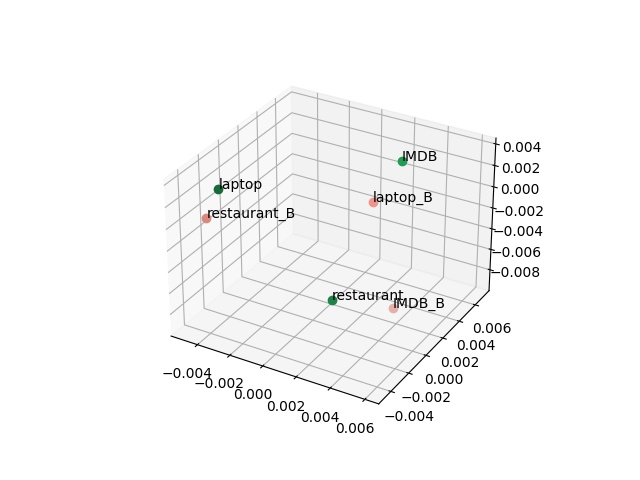
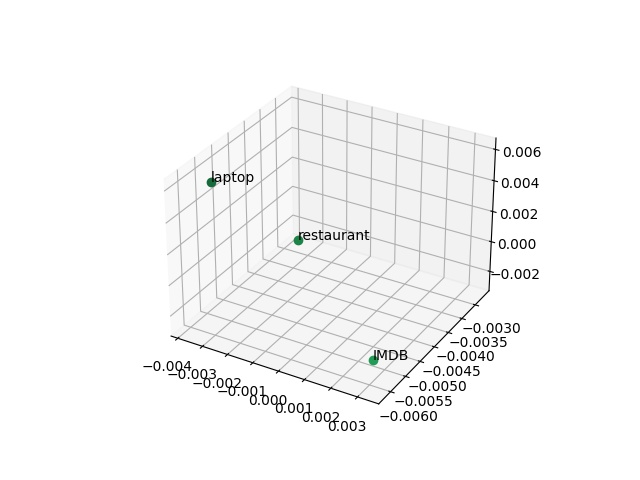
update

diff --git a/draw_cuda_crossmodel_prompt.py b/draw_cuda_crossmodel_prompt.py
@@ -483,7 +483,7 @@ IMDB_label_ten_B[IMDB_label_ten_B==1]=23
 
 
 #all_prompt_emb = torch.stack([laptop_ten,restaurant_ten,IMDB_ten,laptop_ten_B,restaurant_ten_B,IMDB_ten_B])
-all_prompt_emb = torch.stack([laptop_ten,restaurant_ten])
+all_prompt_emb = torch.stack([laptop_ten,restaurant_ten,IMDB_ten])
 
 #100%
 ###
